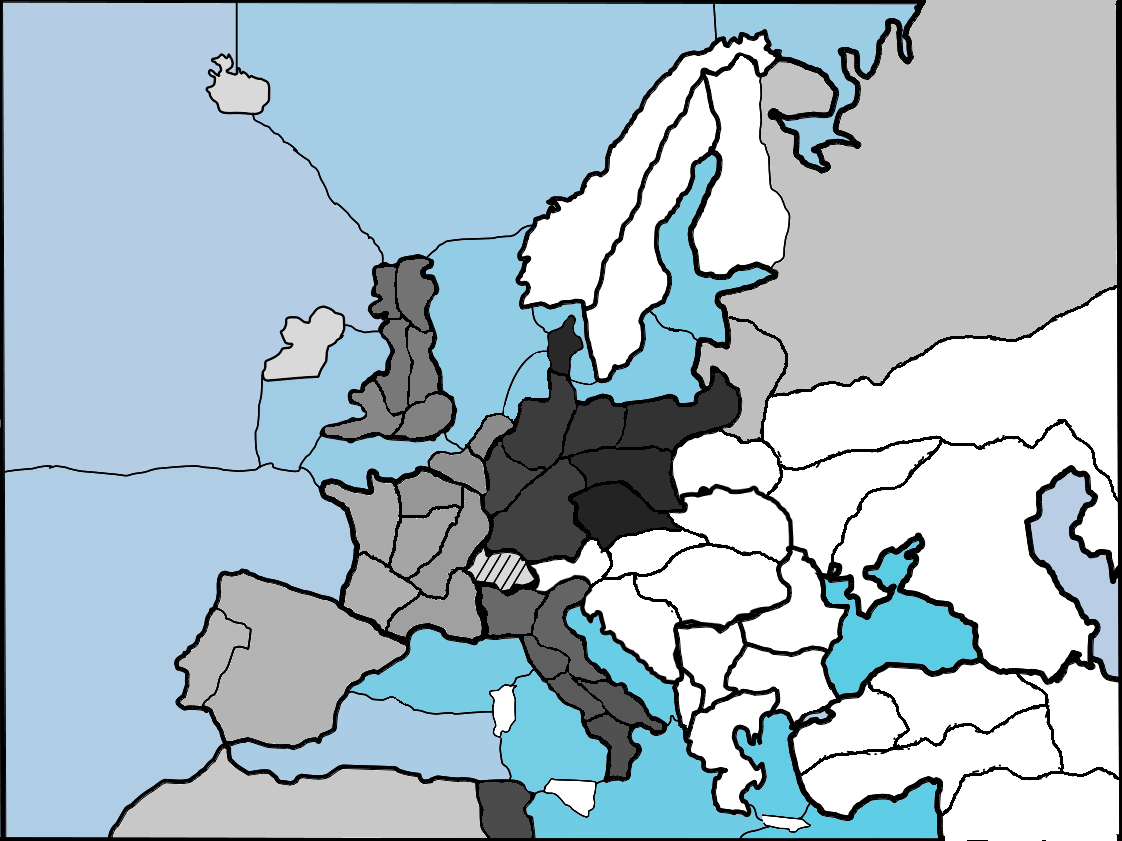
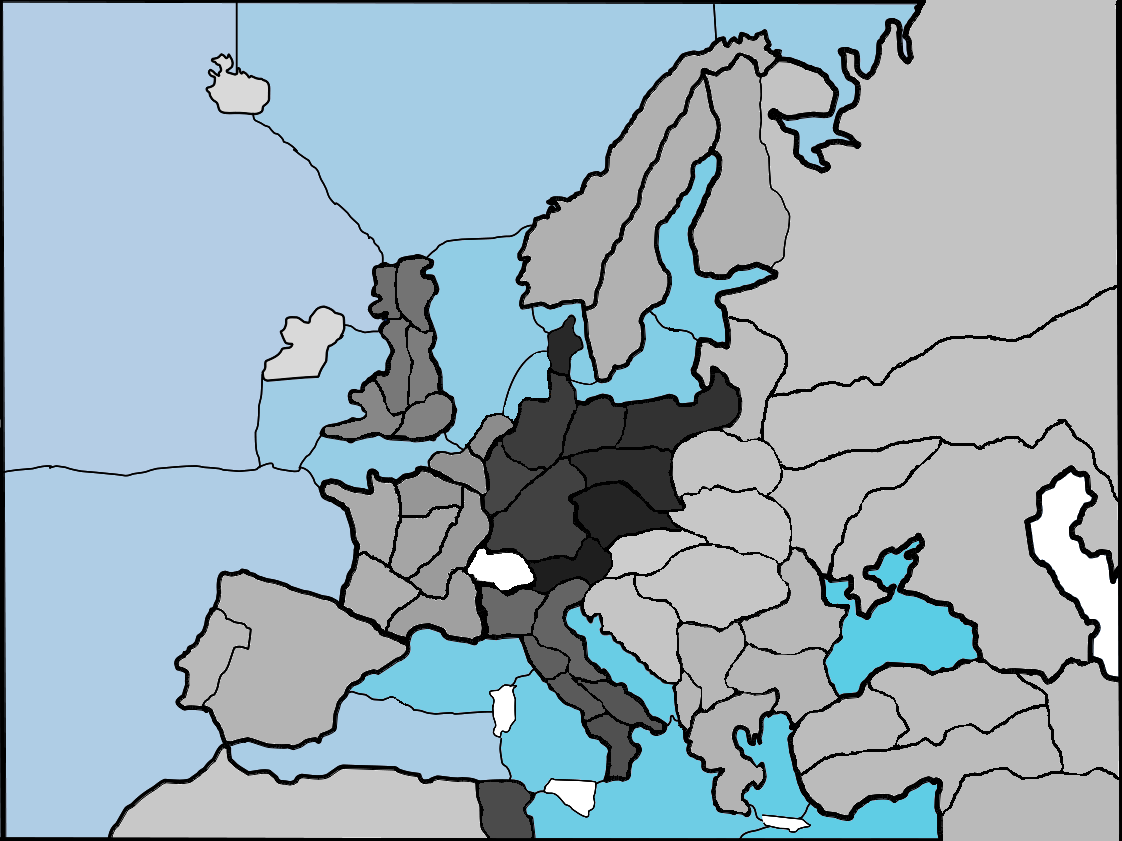
Finished MasterMap.  Finished territory generation with keys

Changed region(s): [[0.4055, 0.3401, 0.9982, 1.0], [0.4679, 0.0309, 0.7175, 0.4637]]

diff --git a/Bitplomacy/src/Driver/Canvas.java b/Bitplomacy/src/Driver/Canvas.java
@@ -110,7 +110,7 @@ public class Canvas extends ECanvas{
 	public void createTerritories(GameContainer gc){
 		
 		
-		territories = new Territory[52];
+		territories = new Territory[72];
 		/* Oceans first */
 		territories[4] = new Territory(gc, NorthAtlantic, "North Atlantic Ocean", this, false, 180, 205, 229);
 		territories[4].setX(0);
@@ -185,6 +185,24 @@ public class Canvas extends ECanvas{
 		territories[21].setY(315);
 		
 		/* IMAGES STILL NEED UPLOADED */
+		territories[42] = new Territory(gc, Linova, "Tunis", this, true, 75, 75, 75);
+		territories[42].setX(690);
+		territories[42].setY(315);
+		
+		/* RUSSIA */
+		territories[55] = new Territory(gc, Linova, "Trieste", this, true, 196, 196, 196);
+		territories[55].setX(690);
+		territories[55].setY(315);
+		territories[56] = new Territory(gc, Linova, "Moscow", this, true, 194, 194, 194);
+		territories[56].setX(690);
+		territories[56].setY(315);
+		territories[57] = new Territory(gc, Linova, "Ukraine", this, true, 193, 193, 193);
+		territories[57].setX(690);
+		territories[57].setY(315);
+		territories[58] = new Territory(gc, Linova, "Sevastopal", this, true, 192, 192, 192);
+		territories[58].setX(690);
+		territories[58].setY(315);
+		
 		territories[22] = new Territory(gc, Linova, "Portugal", this, true, 185, 185, 185);
 		territories[22].setX(690);
 		territories[22].setY(315);
@@ -260,9 +278,6 @@ public class Canvas extends ECanvas{
 		territories[41].setX(690);
 		territories[41].setY(315);
 		
-		territories[42] = new Territory(gc, Linova, "Tunis", this, true, 75, 75, 75);
-		territories[42].setX(690);
-		territories[42].setY(315);
 		
 		/* GERMANY */
 		territories[43] = new Territory(gc, Linova, "Ruhr", this, true, 70, 70, 70);
@@ -292,10 +307,66 @@ public class Canvas extends ECanvas{
 		territories[50] = new Territory(gc, Linova, "Bohmeia", this, true, 35, 35, 35);
 		territories[50].setX(690);
 		territories[50].setY(315);
-		territories[51] = new Territory(gc, Linova, "Tunis", this, true, 75, 75, 75);
+		territories[51] = new Territory(gc, Linova, "Tyrol", this, true, 30, 30, 30);
 		territories[51].setX(690);
 		territories[51].setY(315);
+		territories[52] = new Territory(gc, Linova, "Vienna", this, true, 205, 205, 205);
+		territories[52].setX(690);
+		territories[52].setY(315);
+		territories[53] = new Territory(gc, Linova, "Galicia", this, true, 199, 199, 199);
+		territories[53].setX(690);
+		territories[53].setY(315);
+		territories[54] = new Territory(gc, Linova, "Budapest", this, true, 198, 198, 198);
+		territories[54].setX(690);
+		territories[54].setY(315);
+		territories[55] = new Territory(gc, Linova, "Trieste", this, true, 197, 197, 197);
+		territories[55].setX(690);
+		territories[55].setY(315);
+		
+		/* TURKEY */
+		territories[59] = new Territory(gc, Linova, "Armenia", this, true, 191, 191, 191);
+		territories[59].setX(690);
+		territories[59].setY(315);
+		territories[60] = new Territory(gc, Linova, "Ankara", this, true, 189, 189, 189);
+		territories[60].setX(690);
+		territories[60].setY(315);
+		territories[61] = new Territory(gc, Linova, "Con", this, true, 188, 188, 188);
+		territories[61].setX(690);
+		territories[61].setY(315);
+		territories[62] = new Territory(gc, Linova, "Smyrna", this, true, 187, 187, 187);
+		territories[62].setX(690);
+		territories[62].setY(315);
+		territories[63] = new Territory(gc, Linova, "Syria", this, true, 186, 186, 186);
+		territories[63].setX(690);
+		territories[63].setY(315);
+		
+		
+		territories[64] = new Territory(gc, Linova, "Rumania", this, true, 184, 184, 184);
+		territories[64].setX(690);
+		territories[64].setY(315);
+		territories[65] = new Territory(gc, Linova, "Serbia", this, true, 183, 183, 183);
+		territories[65].setX(690);
+		territories[65].setY(315);
+		territories[66] = new Territory(gc, Linova, "Alb", this, true, 182, 182, 182);
+		territories[66].setX(690);
+		territories[66].setY(315);
+		territories[67] = new Territory(gc, Linova, "Bulgaria", this, true, 181, 181, 181);
+		territories[67].setX(690);
+		territories[67].setY(315);
+		territories[68] = new Territory(gc, Linova, "Greece", this, true, 179, 179, 179);
+		territories[68].setX(690);
+		territories[68].setY(315);
+		territories[69] = new Territory(gc, Linova, "Finland", this, true, 178, 178, 178);
+		territories[69].setX(690);
+		territories[69].setY(315);
+		territories[70] = new Territory(gc, Linova, "Sweden", this, true, 177, 177, 177);
+		territories[70].setX(690);
+		territories[70].setY(315);
+		territories[71] = new Territory(gc, Linova, "Norway", this, true, 176, 176, 176);
+		territories[71].setX(690);
+		territories[71].setY(315);
 		/* Land territories completed */
+		
 	}
 	
 }
